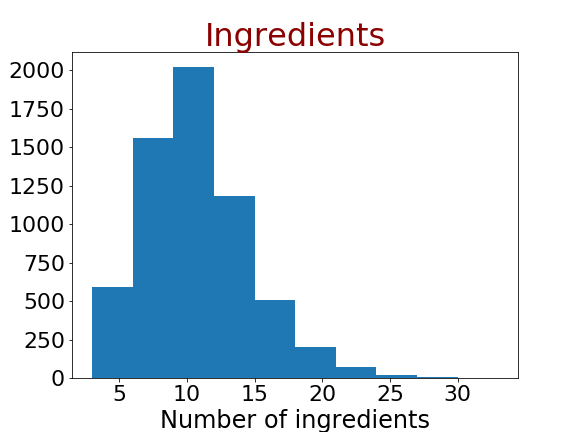
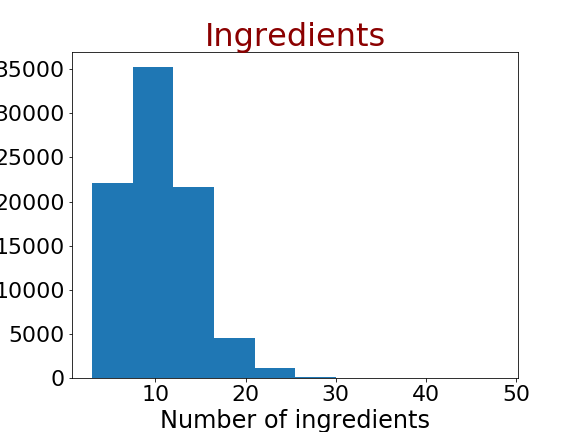
updated plot running all the data

diff --git a/source/inspect.py b/source/inspect.py
@@ -1,0 +1,86 @@
+#!/usr/bin/env python3
+# -*- coding: utf-8 -*-
+"""
+Created on Mon Jul 29 13:11:09 2019
+
+@author: angelmanzur
+"""
+import json
+import numpy as np
+print('Reading full reicpes')
+data_file = '../data/Merged_Recipe.json'
+with open(data_file, 'r') as file:
+    new_data = json.load(file)
+    
+    
+num_ingredients = []
+num_instructions = []
+for recipe in new_data:
+    n_ings = len(recipe['ingredients'])
+    n_instr = len(recipe['instructions'])
+    num_ingredients.append(n_ings)
+    num_instructions.append(n_instr)
+    
+    
+import matplotlib.pyplot as plt
+
+n_ings = np.array(num_ingredients)
+n_instr= np.array(num_instructions)
+
+print('Intructions')
+print('Avg Number of instructions {:1.0f}'.format(n_instr.mean()))
+print('Min, Max instructions: {}, {}'.format(n_instr.min(), n_instr.max()))
+
+print('Ingredients')
+print('Avg Number of ingredients {:1.0f}'.format(n_ings.mean()))
+print('Min, Max ingredientss: {}, {}'.format(n_ings.min(), n_ings.max()))
+
+
+
+
+plt.gcf().subplots_adjust(bottom=0.15)
+plt.tight_layout()
+
+
+fig = plt.figure(figsize=(8,6))
+plt.hist(n_ings, bins=10);
+plt.title('Ingredients', fontsize=32, color='darkred')
+plt.xlabel('Number of ingredients', fontsize=24)
+plt.ylabel('', fontsize=24)
+plt.xticks(fontsize=22)
+plt.yticks(fontsize=22)
+
+plt.savefig('figs/Ingredient_hist.png')
+
+
+fig = plt.figure(figsize=(8,6))
+plt.hist(n_instr, bins=20);
+plt.title('Instructions', fontsize=32, color='darkred')
+plt.xlabel('Number of instructions', fontsize=24)
+plt.ylabel('', fontsize=24)
+plt.xticks(fontsize=22)
+plt.yticks(fontsize=22)
+
+plt.savefig('figs/Instructions_hist.png')
+
+
+
+fig = plt.figure(figsize=(8,6))
+f, (ax1, ax2) = plt.subplots(1, 2, figsize=(12,6))
+
+ax1.hist(n_ings, bins=20);
+ax1.set_xlabel('Number of Ingredients', fontsize=24)
+ax1.tick_params(labelsize=16)
+#plt.xticks(fontsize=20)
+#plt.yticks(fontsize=20)
+ax2.hist(n_instr, bins=20);
+ax2.set_xlabel('Number of Instructions', fontsize=24)
+ax2.tick_params(labelsize=16)
+
+plt.savefig('figs/Ingredients_Instructions_hist.png')
+#plt.xticks(fontsize=20)
+#plt.yticks(fontsize=20)
+
+
+fig = plt.figure(figsize=(8,6))
+plt.hist2d(n_ings, n_instr,bins=40)

diff --git a/source/clean_and_merge_data.py b/source/clean_and_merge_data.py
@@ -39,7 +39,7 @@ def clean_main():
     new_ingredients = []
     target = []
 #    for i in range(nfiles):
-    for i in range(3):
+    for i in range(42):
         #full data
         fullname = 'full_recipes/sample_layer1_{}.json'.format(i)
         print(fullname)
